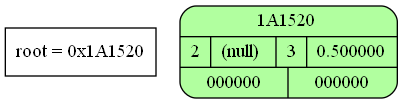
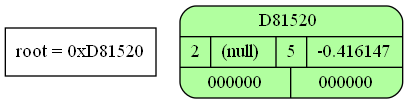
add constants convolution for unary operations

diff --git a/Differentiator/Differentiator.cpp b/Differentiator/Differentiator.cpp
@@ -1,6 +1,7 @@
 #include <stdio.h>
 #include <assert.h>
 #include <stdarg.h>
+#include <math.h>
 
 #include "Differentiator.h"
 
@@ -87,6 +88,17 @@ static void PrintfInLatexReal(const char* function, const char *format, ...);
                                         \
     node_arg->val.type   = TYPE_NUM;    \
     VAL_N(node_arg->val) = a oper b;    \
+}
+
+#define UnaryConstConv(func)            \
+{                                       \
+    double a = VAL_N(R(node_arg)->val); \
+                                        \
+    free(R(node_arg));                  \
+    R(node_arg) = nullptr;              \
+                                        \
+    node_arg->val.type   = TYPE_NUM;    \
+    VAL_N(node_arg->val) = func(a);     \
 }
 
 #define L(node) node->left
@@ -805,12 +817,16 @@ void ConstsConvolution(Node* node_arg)
     if (node.type != TYPE_OP)
         return;
 
-    printf("start simply node\n");
-    
-    if (!IS_NUM(L(node_arg)->val) || !IS_NUM(R(node_arg)->val))
+    #ifdef DEBUG
+        printf("start simply node\n");
+    #endif
+
+    if ((L(node_arg) != nullptr && !IS_NUM(L(node_arg)->val)) || !IS_NUM(R(node_arg)->val))
         return;
 
-    printf("start simply node after\n");
+    #ifdef DEBUG
+        printf("start simply node after\n");
+    #endif
 
     switch (VAL_OP(node))
     {
@@ -827,10 +843,10 @@ void ConstsConvolution(Node* node_arg)
         BinaryConstConv(/);
         break;
     case OP_SIN:
-
+        UnaryConstConv(sin);
         break;
     case OP_COS:
-
+        UnaryConstConv(cos);
         break;
     case UNDEF_OPER_TYPE:
         assert(1 || "undef operator");
